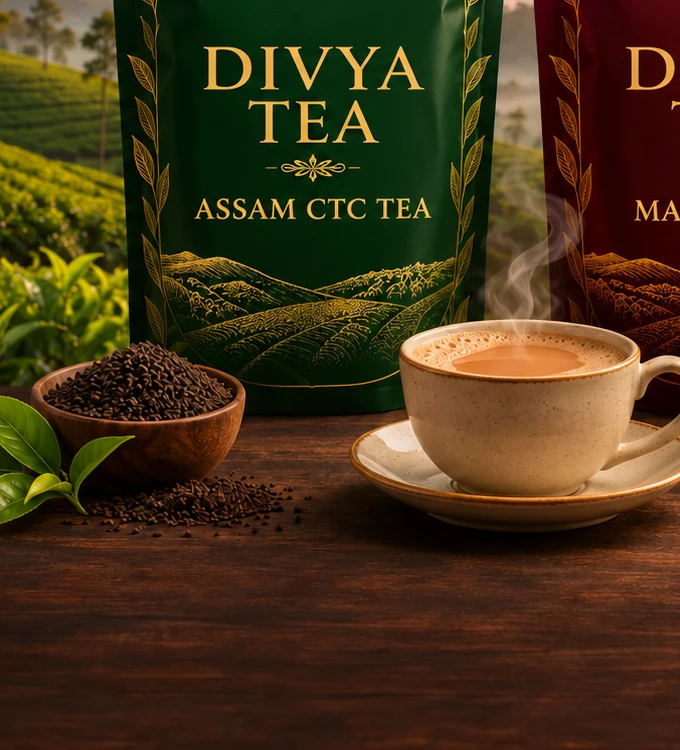
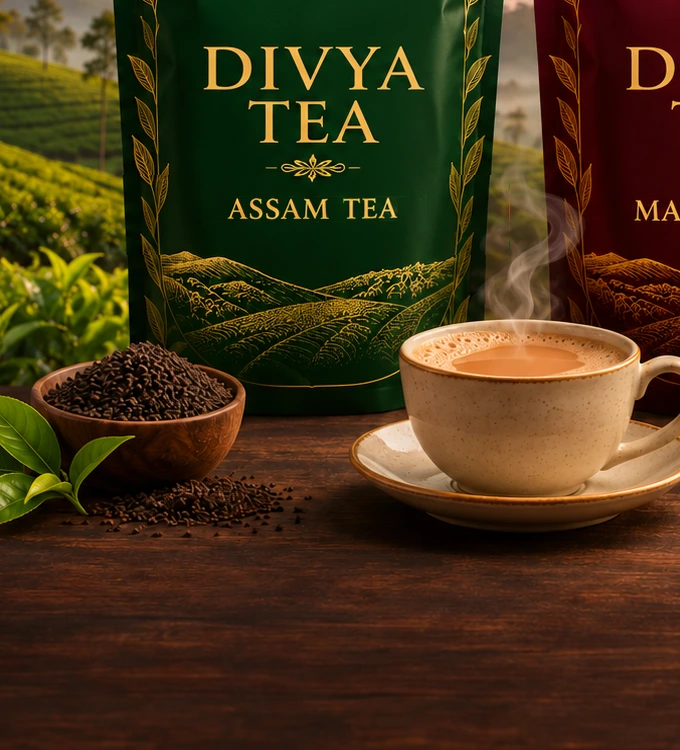
feat: complete Divya Tea rebrand, apply new packet sunrise artwork, and update catalogue

Changed region(s): [[0.2779, 0.2147, 0.7103, 0.3373], [0.1853, 0.2147, 0.2471, 0.3373]]

diff --git a/src/data/products.js b/src/data/products.js
@@ -81,7 +81,7 @@ export const CATEGORIES = [
     brandName: 'Divya Tea',
     icon: 'leaf',
     image: '/images/category-daily-premium-tea.webp',
-    subtitle: 'Garden-fresh Assam CTC tea & aromatic spiced royal chai',
+    subtitle: 'Garden-fresh Assam tea & aromatic spiced royal chai',
     badge: 'Garden Fresh',
     tag: 'Daily & Premium Tea',
   },
@@ -766,22 +766,22 @@ export const PRODUCTS = [
   // Category 7: Daily & Premium Tea (2 items)
   // ==========================================
   {
-    id: 'cotx-assam-ctc-tea',
-    slug: 'cotx-assam-ctc-tea',
+    id: 'divya-assam-tea',
+    slug: 'divya-assam-tea',
     brandId: 'divya-tea',
     brandName: 'Divya Tea',
     categoryId: 'daily-premium-tea',
     categoryName: 'Daily & Premium Tea',
-    name: 'Assam CTC Tea',
-    short: 'Garden-fresh Assam CTC black tea delivering robust liquor, rich color, and strong taste.',
+    name: 'Assam Tea',
+    short: 'Garden-fresh Assam black tea delivering robust liquor, rich color, and strong taste.',
     description:
-      'Sourced from high-grown Assam tea estates, Divya Tea Assam CTC brews an invigorating, full-bodied cup perfect for daily morning and evening chai.',
+      'Sourced from high-grown Assam tea estates, Divya Tea Assam Tea brews an invigorating, full-bodied cup perfect for daily morning and evening chai.',
     concern: 'Fresh Daily Beverage',
     pricingMode: 'enquiry',
     price: null,
     mrp: null,
     size: 'Pending',
-    image: '/products/cotx-assam-ctc-tea.webp',
+    image: '/products/divya-assam-tea.webp',
     isIllustrative: false,
     bestseller: true,
     featured: true,
@@ -793,22 +793,22 @@ export const PRODUCTS = [
     benefits: ['Strong kadak flavor profile', 'Rich amber golden liquor', 'Estate fresh packaging', 'Perfect with milk and sugar'],
   },
   {
-    id: 'cotx-masala-chai',
-    slug: 'cotx-masala-chai',
+    id: 'divya-masala-chai',
+    slug: 'divya-masala-chai',
     brandId: 'divya-tea',
     brandName: 'Divya Tea',
     categoryId: 'daily-premium-tea',
     categoryName: 'Daily & Premium Tea',
     name: 'Masala Chai',
-    short: 'Authentic spiced tea blend of premium CTC with cardamom, ginger, cloves, and cinnamon.',
+    short: 'Authentic spiced tea blend of premium black tea with cardamom, ginger, cloves, and cinnamon.',
     description:
-      'Divya Tea Masala Chai blends traditional aromatic whole spices with robust CTC tea leaves for an authentic, warming kadak chai experience.',
+      'Divya Tea Masala Chai blends traditional aromatic whole spices with robust tea leaves for an authentic, warming kadak chai experience.',
     concern: 'Fresh Daily Beverage',
     pricingMode: 'enquiry',
     price: null,
     mrp: null,
     size: 'Pending',
-    image: '/products/cotx-masala-chai.webp',
+    image: '/products/divya-masala-chai.webp',
     isIllustrative: false,
     bestseller: true,
     featured: true,
@@ -824,8 +824,8 @@ export const PRODUCTS = [
   // Category 8: Wholesale & Bulk Tea Packs (1 item)
   // ==========================================
   {
-    id: 'cotx-bulk-tea',
-    slug: 'cotx-bulk-tea',
+    id: 'divya-bulk-tea',
+    slug: 'divya-bulk-tea',
     brandId: 'divya-tea',
     brandName: 'Divya Tea',
     categoryId: 'wholesale-bulk-tea',
@@ -839,7 +839,7 @@ export const PRODUCTS = [
     price: 0,
     mrp: 0,
     size: '5 kg and 25 kg cartons',
-    image: '/products/cotx-bulk-tea-cartons.webp',
+    image: '/products/divya-bulk-tea-cartons.webp',
     isIllustrative: true,
     variants: [
       { id: '5kg-carton', size: '5 kg carton', price: 0, mrp: 0, inStock: true },
@@ -856,14 +856,26 @@ export const PRODUCTS = [
   },
 ]
 
-export const getProductBySlug = (slug) =>
-  PRODUCTS.find(
+export const getProductBySlug = (slug) => {
+  if (!slug) return null
+  const s = String(slug).toLowerCase()
+  if (s === 'cotx-assam-ctc-tea' || s === 'divya-assam-ctc-tea' || s === 'assam-ctc-tea' || s === 'assam-tea') {
+    return PRODUCTS.find((p) => p.id === 'divya-assam-tea')
+  }
+  if (s === 'cotx-masala-chai') {
+    return PRODUCTS.find((p) => p.id === 'divya-masala-chai')
+  }
+  if (s === 'cotx-bulk-tea') {
+    return PRODUCTS.find((p) => p.id === 'divya-bulk-tea')
+  }
+  return PRODUCTS.find(
     (p) =>
       p.slug === slug ||
       p.id === slug ||
       p.slug.replace('divya-', 'cotx-') === slug ||
       p.slug.replace('cotx-', 'divya-') === slug
   )
+}
 export const getProductsByBrand = (brandId) =>
   PRODUCTS.filter(
     (p) =>

diff --git a/src/pages/Home.jsx b/src/pages/Home.jsx
@@ -62,13 +62,13 @@ const HERO_SLIDES = [
   {
     id: 'divya-tea',
     tabLabel: '☕ Divya Tea',
-    badge: 'Artisanal CTC & Wholesale Bulk Supply',
+    badge: 'Artisanal Tea & Wholesale Bulk Supply',
     title: 'Divya Tea,',
     titleAccent: 'Rich Aroma & Bold Flavor.',
-    desc: 'Finest Assam CTC leaf tea, royal spiced masala chai, and commercial catering bulk cartons (5 kg & 25 kg) for daily retail enjoyment and wholesale distributors.',
+    desc: 'Finest Assam leaf tea, royal spiced masala chai, and commercial catering bulk cartons (5 kg & 25 kg) for daily retail enjoyment and wholesale distributors.',
     image: '/images/divya-tea-showcase.webp',
     chip1: 'Daily Kadak Chai',
-    chip1Sub: 'Assam CTC & Masala Chai',
+    chip1Sub: 'Assam Tea & Masala Chai',
     chip2: 'Commercial Master Cartons',
     chip2Sub: '5 kg & 25 kg Wholesale Supply',
     exploreLink: '/shop?category=daily-premium-tea',
@@ -121,11 +121,11 @@ const CONCERNS_DATA = [
   },
   {
     title: 'Estate Tea & Bulk Cartons',
-    brand: 'COTX Tea',
-    brandId: 'cotx',
+    brand: 'Divya Tea',
+    brandId: 'divya-tea',
     path: '/shop?category=daily-premium-tea',
     image: '/images/category-daily-premium-tea.webp',
-    sub: 'Assam CTC, Masala & Wholesale Cartons',
+    sub: 'Assam Tea, Masala & Wholesale Cartons',
   },
 ]
 
@@ -143,7 +143,7 @@ const TESTIMONIALS = [
     stars: 5,
   },
   {
-    quote: 'The COTX Japanese Cherry Blossom face wash and Sun Block SPF 50++ are consistent bestsellers in our retail store. The Assam CTC tea and Masala Chai are also favorites.',
+    quote: 'The COTX Japanese Cherry Blossom face wash and Sun Block SPF 50++ are consistent bestsellers in our retail store. The Assam Tea and Masala Chai are also favorites.',
     author: 'Anita Verma',
     role: 'Retail Store Owner (Delhi NCR)',
     stars: 5,
@@ -247,7 +247,7 @@ export default function Home() {
               {/* Enterprise Trust Metrics Row */}
               <div className="hero-trust-metrics">
                 <div className="hero-metric-item">
-                  <div className="hero-metric-value">3</div>
+                  <div className="hero-metric-value">2</div>
                   <div className="hero-metric-label">Premier Brands</div>
                 </div>
                 <div className="hero-metric-divider" />
@@ -454,7 +454,7 @@ export default function Home() {
                 <span className="brand-showcase-tagline">Estate Sourced Kadak & Spiced Blends</span>
                 <h3 className="brand-showcase-panel-title">Divya Tea</h3>
                 <p className="brand-showcase-panel-desc">
-                  High-grown Assam CTC leaf tea, authentic royal masala chai, and commercial 5 kg & 25 kg wholesale master cartons.
+                  High-grown Assam leaf tea, authentic royal masala chai, and commercial 5 kg & 25 kg wholesale master cartons.
                 </p>
                 <div className="brand-showcase-chips">
                   <span className="showcase-chip">Garden Fresh</span>

diff --git a/index.html b/index.html
@@ -7,11 +7,11 @@
     <title>DKB VENTURES — Beauty, Personal Care & Wellness Products</title>
     <meta
       name="description"
-      content="DKB Ventures is a premier Delhi-based trading and distribution firm for beauty, skincare, personal care, Ayurveda, and tea products. Wholesale supply, salon distribution, and retail."
+      content="DKB Ventures is a premier Delhi-based trading and distribution firm for beauty, skincare, personal care, and tea products. Wholesale supply, salon distribution, and retail."
     />
     <meta
       name="keywords"
-      content="DKB Ventures, Beauty Products Wholesale Delhi, COTX Luxury Skincare, Green Herbs Ayurveda, Divya Tea, Skincare Distributor Delhi, Salon Products Supplier"
+      content="DKB Ventures, Beauty Products Wholesale Delhi, COTX Luxury Skincare, Divya Tea, Skincare Distributor Delhi, Salon Products Supplier"
     />
     <meta name="author" content="DKB Ventures" />
 
@@ -20,7 +20,7 @@
     <meta property="og:title" content="DKB VENTURES — Your Trusted Partner in Beauty & Wellness" />
     <meta
       property="og:description"
-      content="Delhi trading & distribution firm representing COTX Luxury Skincare, Green Herbs Ayurveda, and Divya Tea. Sourcing partner for salons, retailers, and distributors."
+      content="Delhi trading & distribution firm representing COTX Luxury Skincare and Divya Tea. Sourcing partner for salons, retailers, and distributors."
     />
     <meta property="og:image" content="/dkb-logo.png" />
 
@@ -39,7 +39,7 @@
         "@type": "LocalBusiness",
         "name": "DKB VENTURES",
         "legalName": "DKB VENTURES",
-        "description": "Delhi-based trading firm engaged in wholesale supply, retail marketing, and distribution of beauty, skincare, personal care, Ayurvedic, and tea products.",
+        "description": "Delhi-based trading firm engaged in wholesale supply, retail marketing, and distribution of beauty, skincare, personal care, and tea products.",
         "url": "https://dkbventures.in",
         "logo": "https://dkbventures.in/dkb-logo.png",
         "image": "https://dkbventures.in/dkb-logo.png",
@@ -78,10 +78,6 @@
           {
             "@type": "Brand",
             "name": "COTX Luxury Skincare"
-          },
-          {
-            "@type": "Brand",
-            "name": "Green Herbs Ayurveda"
           },
           {
             "@type": "Brand",

diff --git a/src/pages/Shop.jsx b/src/pages/Shop.jsx
@@ -6,8 +6,8 @@ import { useSEO } from '../hooks/useSEO'
 
 export default function Shop() {
   useSEO(
-    'Catalogue & Store — Skincare, Ayurveda & Tea',
-    'Browse the full multi-brand catalogue of DKB Ventures: COTX Luxury Skincare, Green Herbs Ayurveda, and Divya Tea with wholesale & retail availability.'
+    'Catalogue & Store — Luxury Skincare & Divya Tea',
+    'Browse the full multi-brand catalogue of DKB Ventures: COTX Luxury Skincare and Divya Tea with wholesale & retail availability.'
   )
 
   const [searchParams, setSearchParams] = useSearchParams()
@@ -101,7 +101,7 @@ export default function Shop() {
         img: '/images/divya-tea-showcase.webp',
         eyebrow: '☕ Divya Tea',
         title: 'Estate Tea & Commercial Bulk Cartons',
-        desc: 'Assam high-grown CTC tea, authentic spiced royal chai, and commercial catering cartons (5 kg & 25 kg).',
+        desc: 'Assam high-grown tea, authentic spiced royal chai, and commercial catering cartons (5 kg & 25 kg).',
       }
     }
     return {

diff --git a/src/styles.css b/src/styles.css
@@ -606,7 +606,9 @@ ol {
 .hero-status-eyebrow {
   display: inline-flex;
   align-items: center;
+  flex-wrap: wrap;
   gap: 10px;
+  max-width: 100%;
   padding: 6px 14px;
   background: rgba(199, 160, 82, 0.1);
   border: 1px solid rgba(199, 160, 82, 0.35);
@@ -1469,8 +1471,8 @@ ol {
 /* Panel */
 .brand-showcase-panel {
   position: relative;
-  min-height: 540px;
-  height: 560px;
+  min-height: 560px;
+  height: 580px;
   overflow: hidden;
   display: flex;
   flex-direction: column;
@@ -1513,11 +1515,11 @@ ol {
 }
 
 .brand-showcase-panel-skincare .brand-showcase-bg {
-  object-position: center 22%;
+  object-position: center top;
 }
 
 .brand-showcase-panel-tea .brand-showcase-bg {
-  object-position: center 25%;
+  object-position: right center;
 }
 
 .brand-showcase-panel:hover .brand-showcase-bg {

diff --git a/src/pages/Wholesale.jsx b/src/pages/Wholesale.jsx
@@ -273,7 +273,7 @@ export default function Wholesale() {
                   value={formData.productsOfInterest}
                   onChange={handleChange}
                   className="form-input"
-                  placeholder="e.g. Facial Kits 20 pcs, Aloe Gel 50 tubs, Divya CTC 100 kg"
+                  placeholder="e.g. Facial Kits 20 pcs, Vitamin C Serum 50 pcs, Divya Tea 100 kg"
                 />
               </div>
 

diff --git a/src/data/companyInfo.js b/src/data/companyInfo.js
@@ -58,7 +58,7 @@ export const COMPANY_INFO = {
       themeColor: '#4E342E',
       accentColor: '#D7CCC8',
       categories: [
-        'Assam CTC High-Grown Tea',
+        'Assam High-Grown Tea',
         'Authentic Spiced Masala Chai',
         'Commercial 5 kg Master Cartons',
         'Commercial 25 kg Wholesale Cartons',

diff --git a/src/components/ProductArt.jsx b/src/components/ProductArt.jsx
@@ -17,7 +17,8 @@ export default function ProductArt({
       case 'cotx':
         return 'COTX'
       case 'cotx-tea':
-        return 'COTX TEA'
+      case 'divya-tea':
+        return 'DIVYA TEA'
       default:
         return 'DKB'
     }

diff --git a/PROJECT_DOCUMENTATION.md b/PROJECT_DOCUMENTATION.md
@@ -40,11 +40,11 @@ DKB Ventures represents and distributes three distinct brand portfolios:
 - Traditional Ayurvedic hair oils (Bhringraj, Amla, Brahmi)
 - Steam-distilled pure rose water hydrosols & wellness essentials
 
-### 3. Divya Tea
+### 2. Divya Tea
 *Tea products for everyday consumption, retail sale, and commercial wholesale opportunities.*
-- Everyday CTC leaf tea blends (Assam & Dooars blend)
+- High-grown Assam Tea
 - Royal spiced masala chai with whole natural spices
-- Commercial wholesale bulk sacks (5 kg / 25 kg) for caterers, grocers, and institutions
+- Commercial wholesale bulk cartons (5 kg / 25 kg) for caterers, grocers, and institutions
 
 ---
 
@@ -117,7 +117,7 @@ DKB_VENTURES/
   - **Emerald & Gold Hero:** "Beauty. Wellness. Trusted Partnerships." टैगलाइन, ऑफिशियल लोगो शोकेस, डायरेक्ट कॉल-टू-एक्शन बटन्स।
   - **Perks Bar:** B2B & Retail Supply, Verified Portfolio, Delhi Logistics Hub, Direct Management Line.
   - **Company Intro:** दिल्ली आधारित फर्म का प्रोफाइल, हेड ऑफिस एड्रेस, फोन और GSTIN।
-  - **Explore Our Brands:** 3 मुख्य ब्रांड्स (COTX, Green Herbs, Divya Tea) के विजुअल कार्ड्स।
+  - **Explore Our Brands:** 2 मुख्य ब्रांड्स (COTX Luxury Skincare, Divya Tea) का सिनेमैटिक 2-पैनल शोकेस।
   - **Shop by Category:** 8 मुख्य कैटेगरीज में वन-क्लिक नेविगेशन।
   - **Featured Products:** एक्टिव कैटलॉग से चुनिंदा बेस्टसेलर प्रोडक्ट्स का ग्रिड।
   - **Wholesale & Trade Section:** सैलून, पार्लर और होलसेलर्स के लिए विशेष कमर्शियल एडवांटेज व डायरेक्ट WhatsApp कोट।

diff --git a/README.md b/README.md
@@ -9,9 +9,8 @@
 ---
 
 ## 🌟 Brand Portfolio
-1. **COTX Luxury Skincare** — Everyday beauty & grooming essentials, face washes, moisturizers, hair growth oils, beard grooming, professional 6-step facial kits.
-2. **Green Herbs Ayurveda** — Pure aloe vera gels, traditional ubtan & sandalwood face packs, Bhringraj-Amla herbal hair oils, steam-distilled rose water.
-3. **Divya Tea** — Daily CTC leaf tea, royal spiced masala chai, and commercial wholesale bulk packs (5 kg / 25 kg).
+1. **COTX Luxury Skincare** — Targeted face washes, active serums, daily moisturizers, SPF 50++ sun care, body lotion, B12 hair care, and professional 6-step bridal salon facial kits (22 listings).
+2. **Divya Tea** — High-grown Assam Tea, royal spiced Masala Chai, and commercial catering bulk cartons (5 kg & 25 kg master cartons).
 
 ---
 
